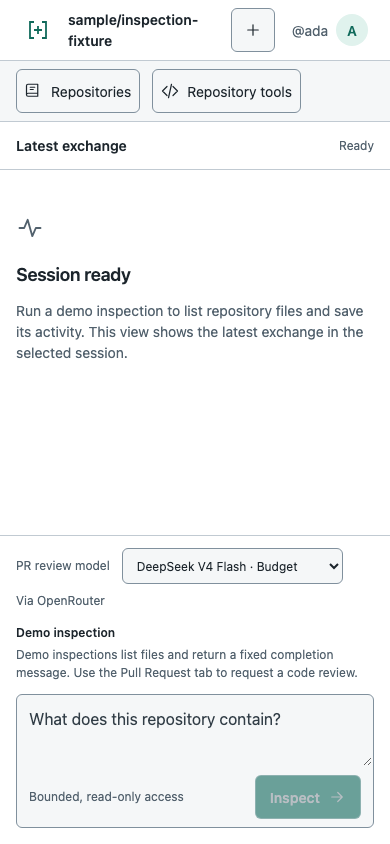
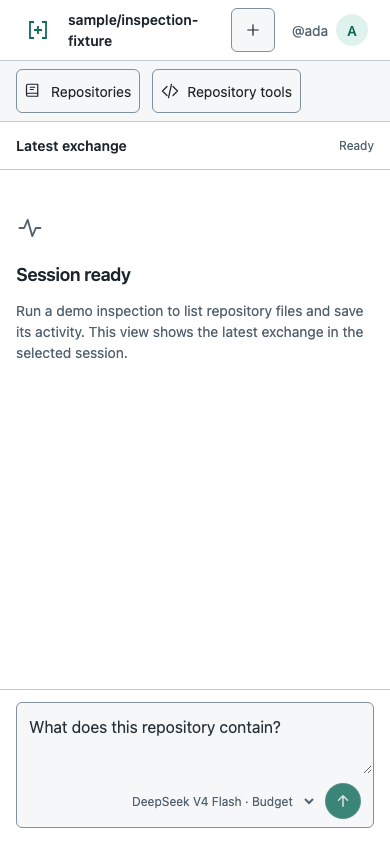
Compact chat composer and refine review readability

diff --git a/frontend/src/app/workspace.tsx b/frontend/src/app/workspace.tsx
@@ -1185,38 +1185,13 @@ export default function Workspace({ user, csrfToken }: { user: SafeProfile; csrf
             ) : null}
           </div>
           <form className="composer" onSubmit={handleSubmit}>
-            {reviewProvider?.models?.length ? (
-              <div className="review-model-control">
-                <label htmlFor="review-model">PR review model</label>
-                <select
-                  id="review-model"
-                  value={reviewModel}
-                  disabled={submitting}
-                  onChange={(event) => setReviewModel(event.target.value)}
-                >
-                  {reviewProvider.models.map((model) => (
-                    <option key={model.id} value={model.id}>
-                      {model.name} · {model.description}
-                    </option>
-                  ))}
-                </select>
-                <span>{reviewProvider.simulation ? 'Simulation enabled' : 'Via OpenRouter'}</span>
-              </div>
-            ) : null}
-            <div className="demo-disclosure" id="demo-disclosure">
-              <strong>Demo inspection</strong>
-              <p>
-                Demo inspections list files and return a fixed completion message. Use the Pull
-                Request tab to request a code review.
-              </p>
-            </div>
             <div className="composer-input">
               <label className="sr-only" htmlFor="instruction">
                 Agent instruction
               </label>
               <textarea
                 id="instruction"
-                aria-describedby="demo-disclosure"
+                aria-describedby="composer-scope"
                 disabled={!session || submitting}
                 onChange={(event) => setMessage(event.target.value)}
                 placeholder="Start a session to run an inspection…"
@@ -1224,21 +1199,36 @@ export default function Workspace({ user, csrfToken }: { user: SafeProfile; csrf
                 maxLength={8000}
               />
               <div className="composer-controls">
-                <span>
-                  {creatingSession
-                    ? 'Starting read-only session…'
-                    : submitting
-                      ? 'Running read-only inspection…'
-                      : 'Bounded, read-only access'}
+                <span className="sr-only" id="composer-scope">
+                  Send runs a demo inspection. Use the Pull Request tab for a model review.
                 </span>
+                {reviewProvider?.models?.length ? (
+                  <div className="review-model-control">
+                    <label className="sr-only" htmlFor="review-model">
+                      PR review model
+                    </label>
+                    <select
+                      id="review-model"
+                      value={reviewModel}
+                      disabled={submitting}
+                      onChange={(event) => setReviewModel(event.target.value)}
+                    >
+                      {reviewProvider.models.map((model) => (
+                        <option key={model.id} value={model.id}>
+                          {model.name} · {model.description}
+                        </option>
+                      ))}
+                    </select>
+                  </div>
+                ) : null}
                 <button
                   aria-label="Send instruction"
+                  title="Run demo inspection"
                   className="primary-button send"
                   disabled={!session || submitting || message.trim().length < 3}
                   type="submit"
                 >
-                  {creatingSession ? 'Starting…' : submitting ? 'Running…' : 'Inspect'}
-                  <Icon name="arrow" />
+                  <Icon name="send" />
                 </button>
               </div>
             </div>

diff --git a/frontend/src/app/globals.css b/frontend/src/app/globals.css
@@ -785,6 +785,8 @@ code {
 }
 .exchange {
   width: 100%;
+  max-width: 96ch;
+  margin-inline: auto;
 }
 .message-meta {
   display: flex;
@@ -809,13 +811,14 @@ code {
   overflow-wrap: anywhere;
 }
 .assistant-message {
-  display: grid;
-  grid-template-columns: 32px minmax(0, 1fr);
-  align-items: start;
-  gap: 12px;
+  position: relative;
+  width: 100%;
   margin-top: 32px;
 }
 .agent-avatar {
+  position: absolute;
+  inset-inline-start: 0;
+  top: 0;
   display: flex;
   align-items: center;
   justify-content: center;
@@ -831,10 +834,11 @@ code {
 }
 .assistant-content {
   min-width: 0;
-  max-width: 70ch;
+  width: 100%;
 }
 .agent-meta {
   min-height: 32px;
+  padding-inline-start: 44px;
   flex-wrap: wrap;
   color: var(--text);
 }
@@ -885,20 +889,6 @@ code {
   border-top: 1px solid var(--border);
   background: var(--canvas);
 }
-.demo-disclosure {
-  margin-bottom: 12px;
-  font-size: 12px;
-  line-height: 18px;
-  color: var(--muted);
-}
-.demo-disclosure strong {
-  color: var(--text);
-  font-weight: 600;
-}
-.demo-disclosure p {
-  margin-top: 4px;
-  max-width: 70ch;
-}
 .composer-input {
   border: 1px solid var(--control-border);
   border-radius: var(--radius);
@@ -936,8 +926,8 @@ code {
 .composer-controls {
   display: flex;
   align-items: center;
-  justify-content: space-between;
-  gap: 12px;
+  justify-content: flex-end;
+  gap: 8px;
   padding: 8px 12px;
 }
 .composer-controls > span {
@@ -1359,12 +1349,10 @@ code {
     min-height: 64px;
   }
   .composer-controls {
-    flex-wrap: wrap;
+    flex-wrap: nowrap;
     gap: 8px;
   }
-  .composer-controls .send {
-    margin-left: auto;
-  }
+
   .primary-button,
   .secondary-button,
   .github-button,
@@ -2357,12 +2345,10 @@ code {
   }
 }
 
+/* Model selection and send share the composer footer. */
 .review-model-control {
-  display: flex;
-  align-items: center;
-  flex-wrap: wrap;
-  gap: 8px 12px;
-  margin-bottom: 14px;
+  min-width: 0;
+  max-width: 100%;
   font-size: 12px;
   color: var(--muted);
 }
@@ -2370,9 +2356,36 @@ code {
   min-width: 0;
   max-width: 100%;
   min-height: 36px;
-  padding: 6px 28px 6px 10px;
-  border: 1px solid var(--control-border);
+  padding: 6px 8px;
+  border: 0;
   border-radius: var(--radius);
   background: var(--panel);
+  color: var(--muted);
+  cursor: pointer;
+}
+.review-model-control select:hover {
   color: var(--text);
+}
+.composer-controls .send {
+  width: 36px;
+  height: 36px;
+  min-height: 36px;
+  padding: 0;
+  flex-shrink: 0;
+  border-radius: 50%;
+}
+.composer-controls .send .icon {
+  width: 20px;
+  height: 20px;
+  stroke-width: 2;
+}
+@media (pointer: coarse) {
+  .review-model-control select,
+  .composer-controls .send {
+    min-height: 44px;
+  }
+  .composer-controls .send {
+    width: 44px;
+    height: 44px;
+  }
 }

diff --git a/frontend/src/app/review-answer.tsx b/frontend/src/app/review-answer.tsx
@@ -47,6 +47,23 @@ function CodeBlock({ children }: { children?: ReactNode }) {
   );
 }
 
+// Emphasize prose quantities without rewriting links or syntax-highlighted code.
+function emphasizeNumbers(children: ReactNode) {
+  return Children.map(children, (child) =>
+    typeof child === 'string'
+      ? child.split(/(\b\d+(?:[.,]\d+)*%?)/g).map((part, index) =>
+          index % 2 ? (
+            <span className={styles.number} key={index}>
+              {part}
+            </span>
+          ) : (
+            part
+          ),
+        )
+      : child,
+  );
+}
+
 export function ReviewAnswer({ text }: { text: string }) {
   return (
     <div className={styles.answer}>
@@ -54,6 +71,8 @@ export function ReviewAnswer({ text }: { text: string }) {
         skipHtml
         components={{
           pre: CodeBlock,
+          p: ({ children }) => <p>{emphasizeNumbers(children)}</p>,
+          li: ({ children }) => <li>{emphasizeNumbers(children)}</li>,
           img: () => null,
           a: ({ href, children }) => (
             <a href={href} target="_blank" rel="noreferrer">

diff --git a/frontend/src/app/review-answer.module.css b/frontend/src/app/review-answer.module.css
@@ -4,7 +4,7 @@
   border: 1px solid var(--border);
   border-radius: 10px;
   background: var(--panel);
-  color: var(--muted);
+  color: color-mix(in srgb, var(--text) 76%, var(--muted));
   line-height: 1.7;
   overflow-wrap: anywhere;
 }
@@ -14,7 +14,7 @@
 .answer h2,
 .answer h3 {
   margin-block: 22px 8px;
-  color: color-mix(in srgb, var(--text) 82%, var(--panel));
+  color: var(--text);
   font-size: 16px;
   line-height: 1.4;
 }
@@ -112,4 +112,21 @@
   .codeHeader button {
     min-height: 44px;
   }
+}
+
+.answer strong,
+.answer em,
+.answer li::marker,
+.answer p code,
+.answer li code,
+.number {
+  color: var(--text);
+  font-weight: 600;
+}
+
+.answer hr {
+  height: 0;
+  border: 0;
+  border-top: 0.5px solid color-mix(in srgb, var(--text) 18%, transparent);
+  margin-block: 24px;
 }

diff --git a/frontend/e2e/workspace.spec.ts b/frontend/e2e/workspace.spec.ts
@@ -233,7 +233,9 @@ test('an in-flight inspection disables duplicate submission and restores its sav
   await expect(page.getByRole('heading', { name: 'Session ready' })).toBeVisible();
   await page.getByRole('button', { name: 'Send instruction' }).click();
   await expect(page.getByRole('button', { name: 'Send instruction' })).toBeDisabled();
-  await expect(page.getByText('Running read-only inspection…')).toBeVisible();
+  await expect(
+    page.getByRole('region', { name: 'Latest exchange' }).getByRole('status'),
+  ).toHaveText('Inspecting…');
   await page.route('**/api/v1/sessions/session-1', (route) =>
     route.fulfill({ json: { ...session, turns: [turn] } }),
   );

diff --git a/frontend/src/components/ui/icons.tsx b/frontend/src/components/ui/icons.tsx
@@ -17,6 +17,7 @@ export function Icon({
     | 'sync'
     | 'shield'
     | 'arrow'
+    | 'send'
     | 'plus'
     | 'more'
     | 'edit'
@@ -49,6 +50,7 @@ export function Icon({
     activity: 'M3 12h4l3-7 4 14 3-7h4',
     shield: 'M12 3 4 6v6c0 5 8 9 8 9s8-4 8-9V6l-8-3Zm-4 9 3 3 5-6',
     arrow: 'M5 12h14m-6-6 6 6-6 6',
+    send: 'M12 19V5m-6 6 6-6 6 6',
     edit: 'm16 3 5 5-12 12-6 1 1-6L16 3Zm-3 3 5 5',
     more: 'M5 12h.01M12 12h.01M19 12h.01',
     plus: 'M12 5v14M5 12h14',

diff --git a/docs/reviews/live-review-model-selector/README.md b/docs/reviews/live-review-model-selector/README.md
@@ -1,6 +1,8 @@
 # Live PR reviews and model selection
 
-Validated 2026-11-18. The composer selects DeepSeek V3.2 (default) or DeepSeek V4 Flash (budget) for the next PR review. The server accepts only those IDs, applies separate routing price caps and preserves the selected model and returned usage in saved review metadata. The existing single-request, bounded-context and strict provider privacy policies remain in force. There is no automatic inference retry or model fallback.
+Validated 2026-11-18. The compact composer places a PR model selector immediately left of a circular upward-arrow send button. The visible demo disclosure is removed, with action scope retained in its accessible description and send tooltip. Responses center at up to 96ch, use lighter body text, stronger Markdown emphasis and prose numbers, and faint hairline separators.
+
+The composer selects DeepSeek V3.2 (default) or DeepSeek V4 Flash (budget) for the next PR review. The server accepts only those IDs, applies separate routing price caps and preserves the selected model and returned usage in saved review metadata. The existing single-request, bounded-context and strict provider privacy policies remain in force. There is no automatic inference retry or model fallback.
 
 ## Evidence
 
@@ -29,3 +31,5 @@ These are synthetic fixture accounts and repositories, captured by Playwright. T
 3. Open **Pull Request**, select a PR and click **Code Review this PR**. This action sends bounded PR context to OpenRouter and incurs usage.
 4. Confirm progress, streamed Markdown and code copying; reload the session to see the persisted answer and model. Stop review cancels an in-progress connection.
 5. Ordinary **Inspect** remains the deterministic file-listing demo. Use explicit simulation mode for free interface testing.
+
+![Centered response with lighter text and compact composer](response.png)

diff --git a/DESIGN.md b/DESIGN.md
@@ -179,4 +179,4 @@ Review response bodies sit in a quiet panel message box, using muted prose and s
 
 Conversation questions use content-sized bubbles aligned right with their author label, capped at 85% or 70ch. Repo Surgeon responses anchor to the conversation’s left padding beside a 32px circular avatar containing the activity icon. Only the response content keeps a 70ch reading limit; the exchange itself fills the pane so wide layouts do not center the chatbot. Long content wraps within its message.
 
-The chat composer has a compact, labelled PR review model select using the existing control tokens. DeepSeek V3.2 is the default; DeepSeek V4 Flash is the budget choice. Selection is disabled during processing. Simulation and OpenRouter are stated beside it; ordinary demo inspection remains separately described.
+The composer keeps its PR model selector immediately left of the circular upward-arrow send control, inside the shared input boundary. The selector retains an accessible label; the send control has an accessible action name and demo-inspection tooltip. Detailed demo disclosure is removed from the visible footer; the accessible input description and existing Demo/Simulation response badges preserve the scope. DeepSeek V3.2 is the default and DeepSeek V4 Flash the budget choice. Selection is disabled during processing. Replies use the full available conversation width up to 96ch, centered in the pane with left-aligned body text. Response text is lighter than the secondary UI text; headings, Markdown emphasis, inline code, list markers and prose numbers use the primary foreground. Markdown separators use a 0.5px primary-foreground line at 18% opacity.

diff --git a/.impeccable/surfaces/frontend-src-app-workspace-tsx.md b/.impeccable/surfaces/frontend-src-app-workspace-tsx.md
@@ -31,4 +31,4 @@ REPOSITORY DISCOVERY: The workspace context bar opens a focused dialog with a bl
 
 PULL REQUESTS: The right work pane lists open and closed pull requests with text labels for draft and merged states. Details group PR-wide totals with the title and place the unified and side-by-side switch beside per-file line counts in the file header. The source and target branches sit above the file selector. Additions and deletions use the existing semantic colors with explicit signs and line numbers. The mobile Repository tools drawer uses the same controls and contains any horizontal diff scrolling within the comparison. Code Review this PR sends that exact message into chat, closes the mobile tools drawer and streams a Markdown review with copyable code. Progress and Stop review are visible while processing; simulation is explicit, errors preserve partial answers, and the PR revision is saved.
 
-The chat composer has a compact, labelled PR review model select using the existing control tokens. DeepSeek V3.2 is the default; DeepSeek V4 Flash is the budget choice. Selection is disabled during processing. Simulation and OpenRouter are stated beside it; ordinary demo inspection remains separately described.
+The composer places an accessibly labelled PR model selector immediately left of its circular upward send arrow. A screen-reader description and tooltip retain the demo action scope without a visible disclosure block. Responses center within the conversation at a generous width, with lighter body text and primary-foreground emphasis for Markdown keywords and prose numbers.
